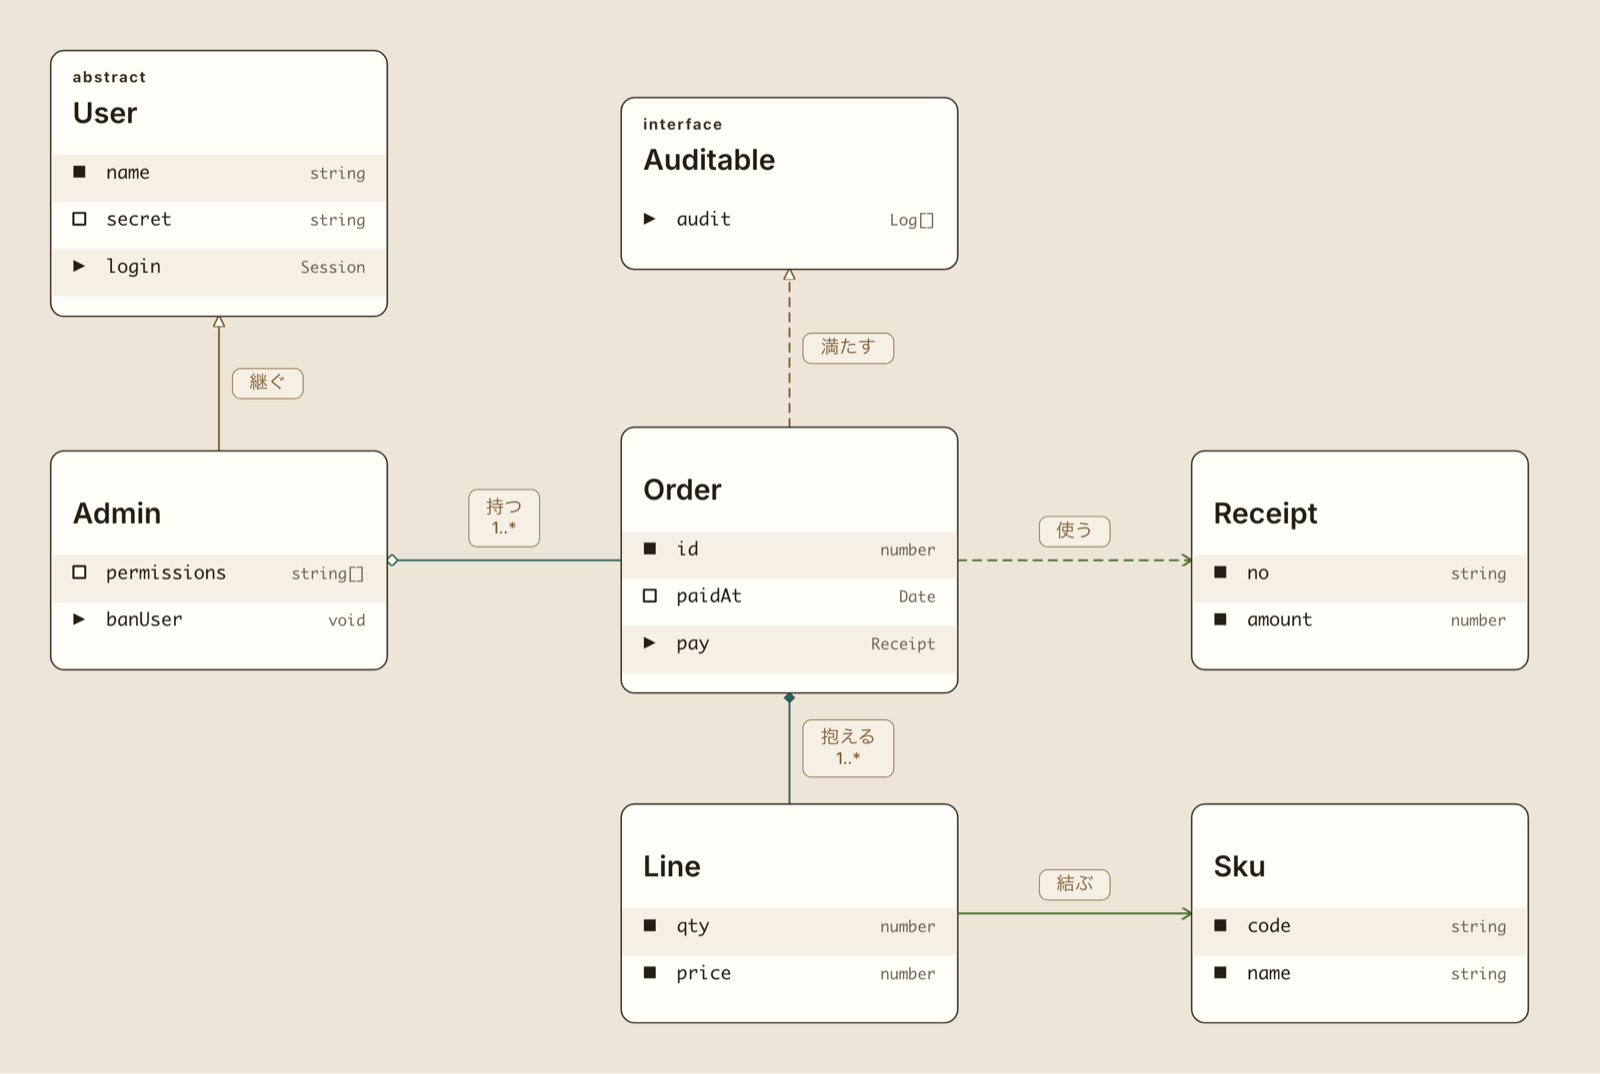
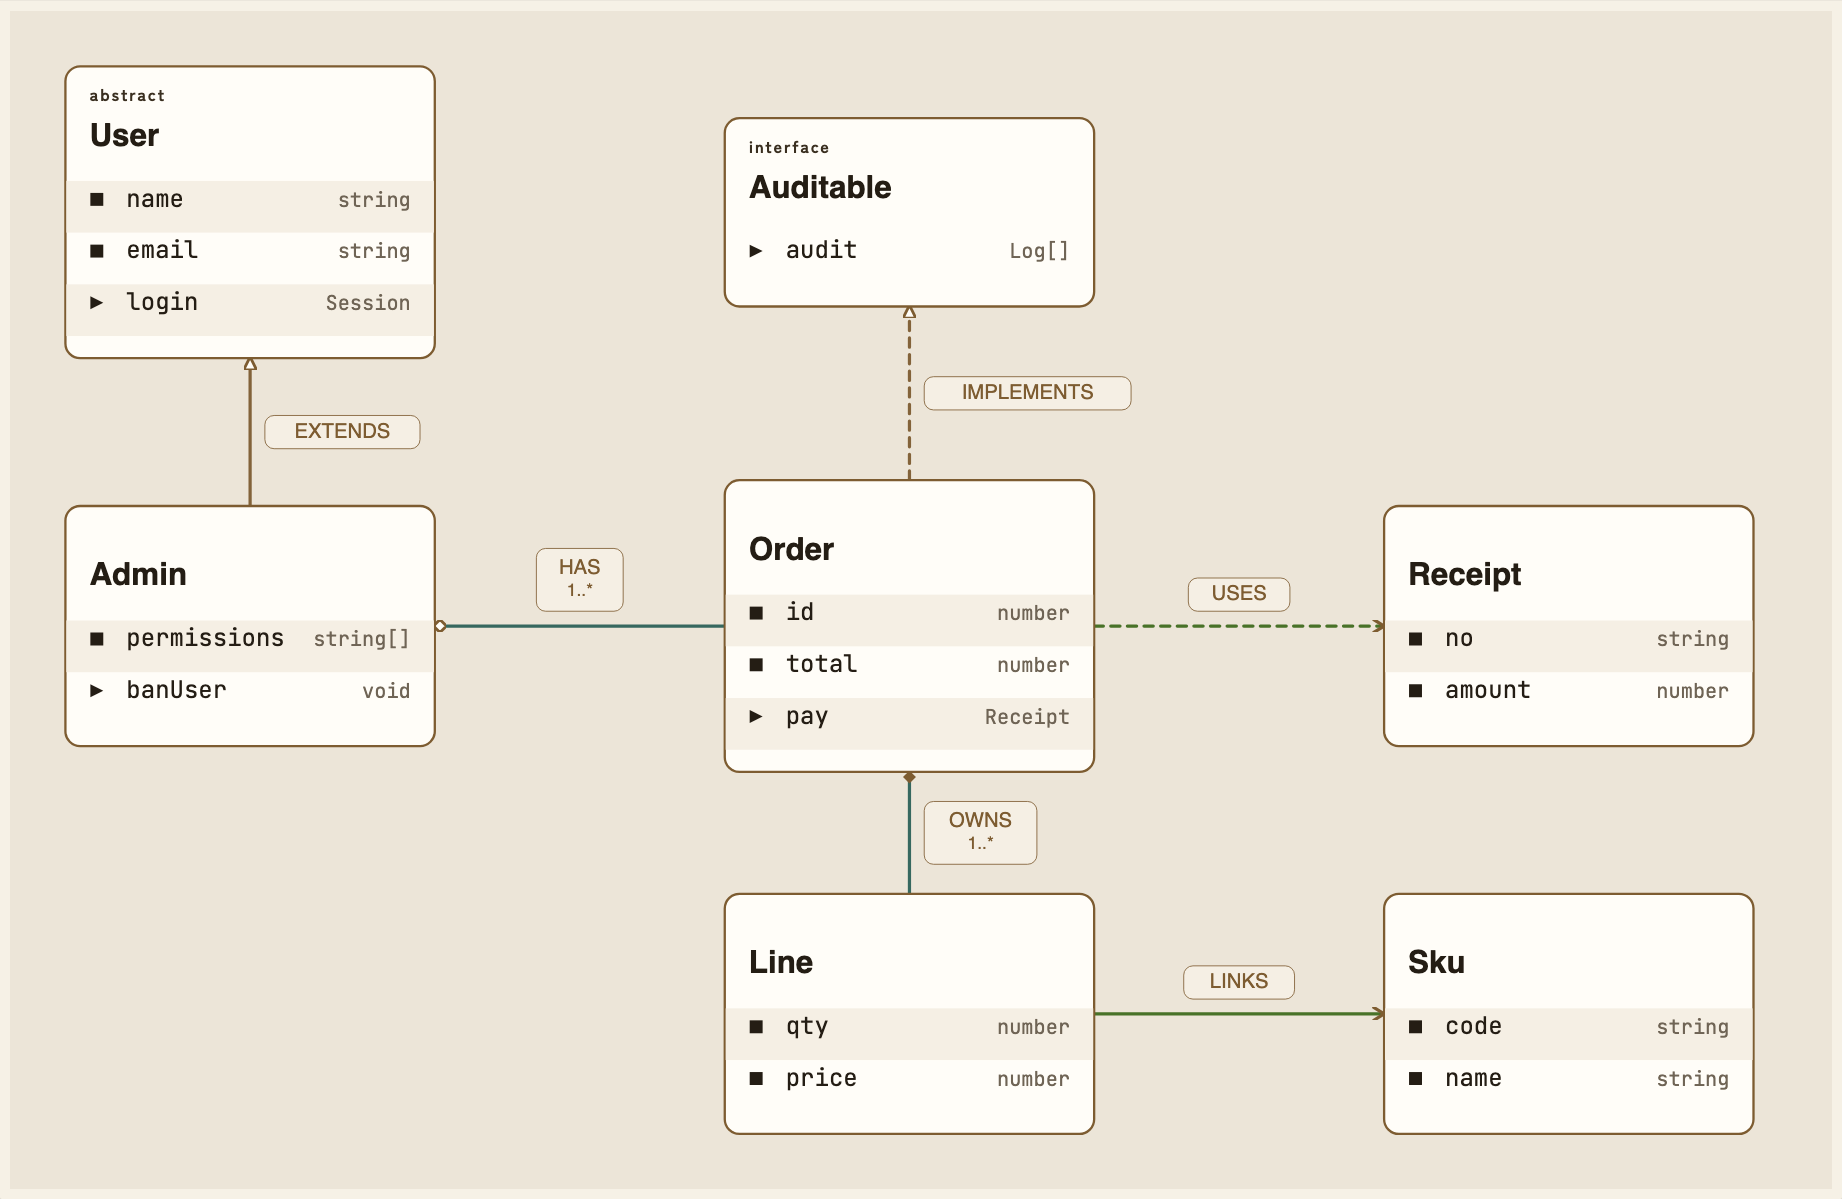
📝 docs(class): 線を太くした判断を意匠帳に残す (#1592)
## 背景

#1587 でクラス図の関係線を太くした判断が、意匠帳に残っていなかった。
次に線を触る際、実物の描画を並べた比較を最初からやり直さないよう、判断の根拠を正本へ記録する。
古い見本絵も現在の描画と食い違っていたため、差し替えた。

## 変更

`docs/design/class/note.md` に、関係線と印の輪郭を太くした比率、クラス図だけに効かせる理由、比較方法を記した。
`look-light.png` と `look-dark.png` を現在の描画へ差し替えた。
公開する package の中身は 1 byte も動かないため、`CHANGELOG.md` ではなく変更履歴の検査にある「利用者から見えない」宣言へ加えた。

Closes #1591

Constraint: 意匠の判断は意匠帳が正本 (PR 本文だけに残さない)
Confidence: high
Scope-risk: narrow

Claude-Session: https://claude.ai/code/session_015yAWc7esVzRn8tFCYbQsb8

diff --git a/packages/dragon/test/changelog-covers-commits.test.ts b/packages/dragon/test/changelog-covers-commits.test.ts
@@ -166,6 +166,7 @@ const 利用者から見えない: Record<string, string> = {
   // 0.22.0 を切った時点で範囲が `v0.21.0..HEAD` に縮み、 それより前の 1 件 (#1585 = 0.21.0 を
   // 切る commit) が範囲の外に出たため外した
   "1589": "版を切る commit そのもの。 変更履歴の更新が中身",
+  "1591": "意匠帳だけの変更。 公開する package の中身は動かない",
 };
 
 /**

diff --git a/docs/design/class/note.md b/docs/design/class/note.md
@@ -143,6 +143,46 @@ engine は関係の種類から色みの **名前** を決める (`CLASS_RELATIO
 追わせるには engine が札にも色みを出す必要がある。
 札は名前を読ませるもので、群を読ませるのは線の役目なので、そこまでは追っていない。
 
+## 線の太さ
+
+関係の線を 2.25 から 3.5 にした。
+印の輪郭も線との比を保って上げてある。
+
+| 何 | 前 | 後 | 線との比 |
+|---|---|---|---|
+| 線 | 2.25 | 3.5 | — |
+| 白抜きの印の輪郭 | 1.4 | 2.18 | 0.622 |
+| 開いた矢の輪郭 | 1.6 | 2.49 | 0.711 |
+
+線だけ太くすると印が痩せて見えるので、比を動かさずに一緒に上げる。
+箱の枠 (1.75) との比は 1.29 から 2.0 になった。
+
+**クラス図だけに効かせている**。
+§ 関係を色で分ける で 6 種を 3 群の色に分けた結果、色が意味を持つようになったのはクラス図だけ。
+細い線は色が薄く見えて群の見分けが効きにくい。
+関係が 1 種類の ER 図と状態遷移図には同じ理由が当たらないので、そちらは 2.25 のまま。
+
+### それまでクラス図を名指しできなかった
+
+線の太さは画面の `[data-cdl-role="edge-line"]` 1 箇所で決まる。
+engine は絵の根に `data-cdl-stage` と `data-cdl-scale` と `data-cdl-palette` の 3 つしか
+出しておらず、図の種類が無かった。
+
+配色でも選び分けられない = クラス図と ER 図がどちらも `kinari` を出すため。
+
+engine が `data-cdl-type` を出すようになって初めて書けた。
+書けるようになるまでは、直すと ER 図 ・ 状態遷移図 ・ 流れ図 ・ 並び図 の線まで同時に太くなる。
+
+### 4 案を実物の描画で並べて決めた
+
+2.25 (いま) / 2.75 / 3 / 3.5 を同じ図で見比べて 3.5 を採った。
+数字だけでは決まらない = 図を画面の幅に収めると線が 1 画素を切り、太さの差が消える。
+ほぼ等倍の帯に切り出して並べている。
+
+画面で `getComputedStyle` を読んで測っており、クラス図 3.5 / ER 図 2.25 / 流れ図 2.25 を
+実測で固定してある。
+限定を外すと他の図が 3.5 に漏れることも、壊して確かめた。
+
 ## 種類の札を出す
 
 クラスと抽象クラスとインターフェースを見分ける札 (`abstract` / `interface`) を出す。
